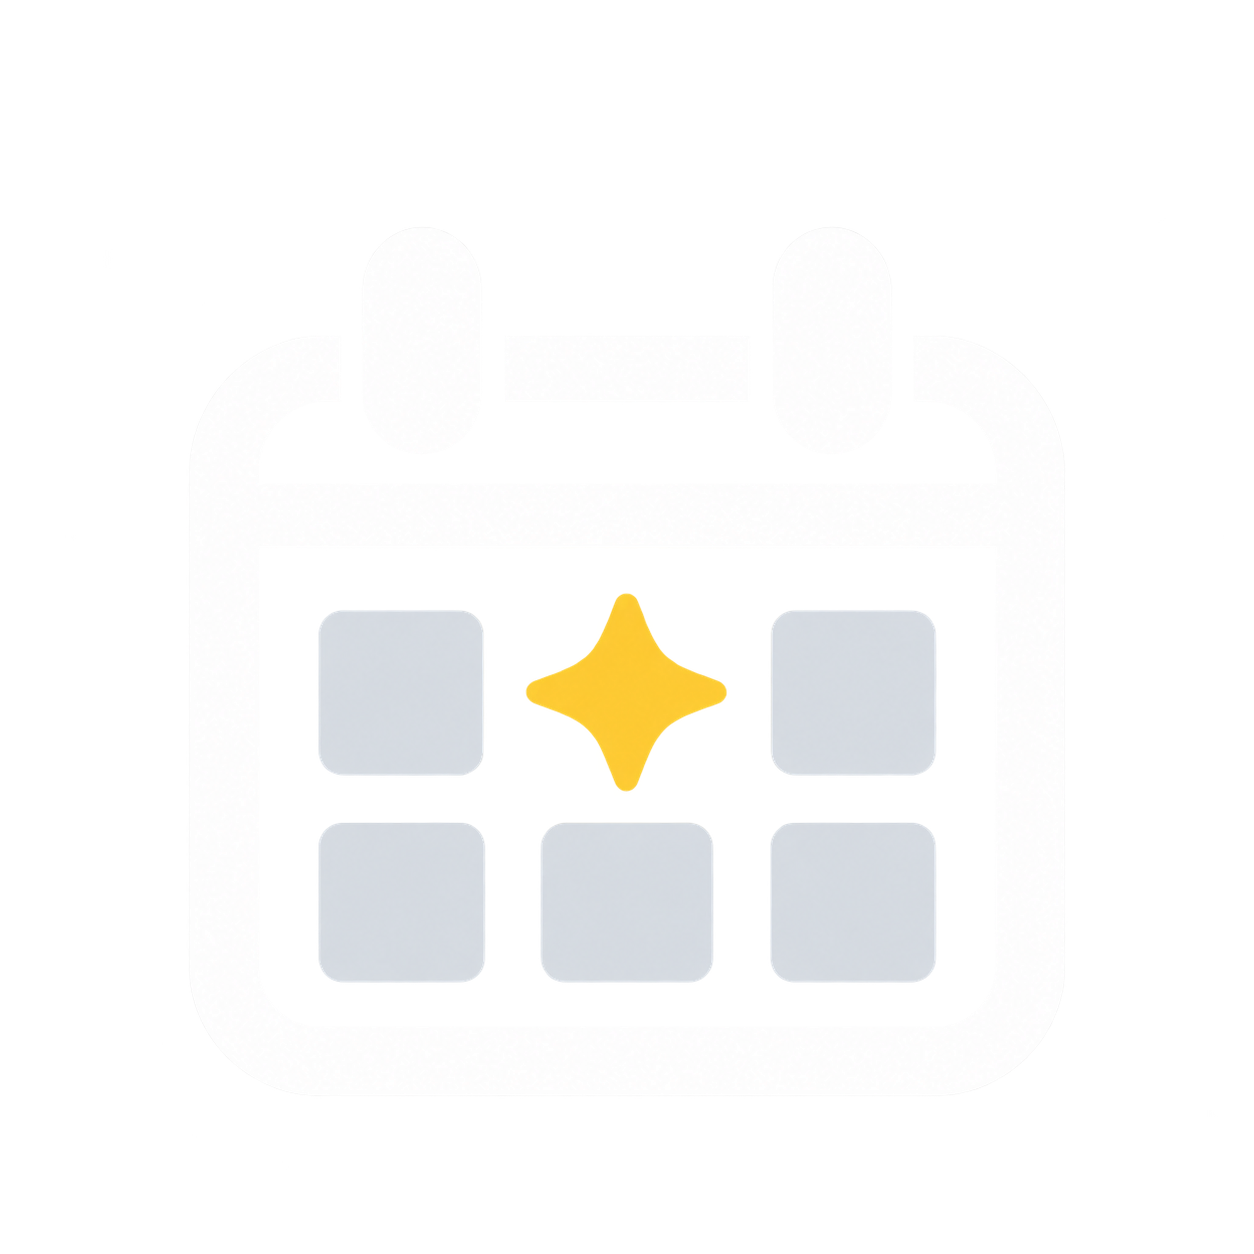
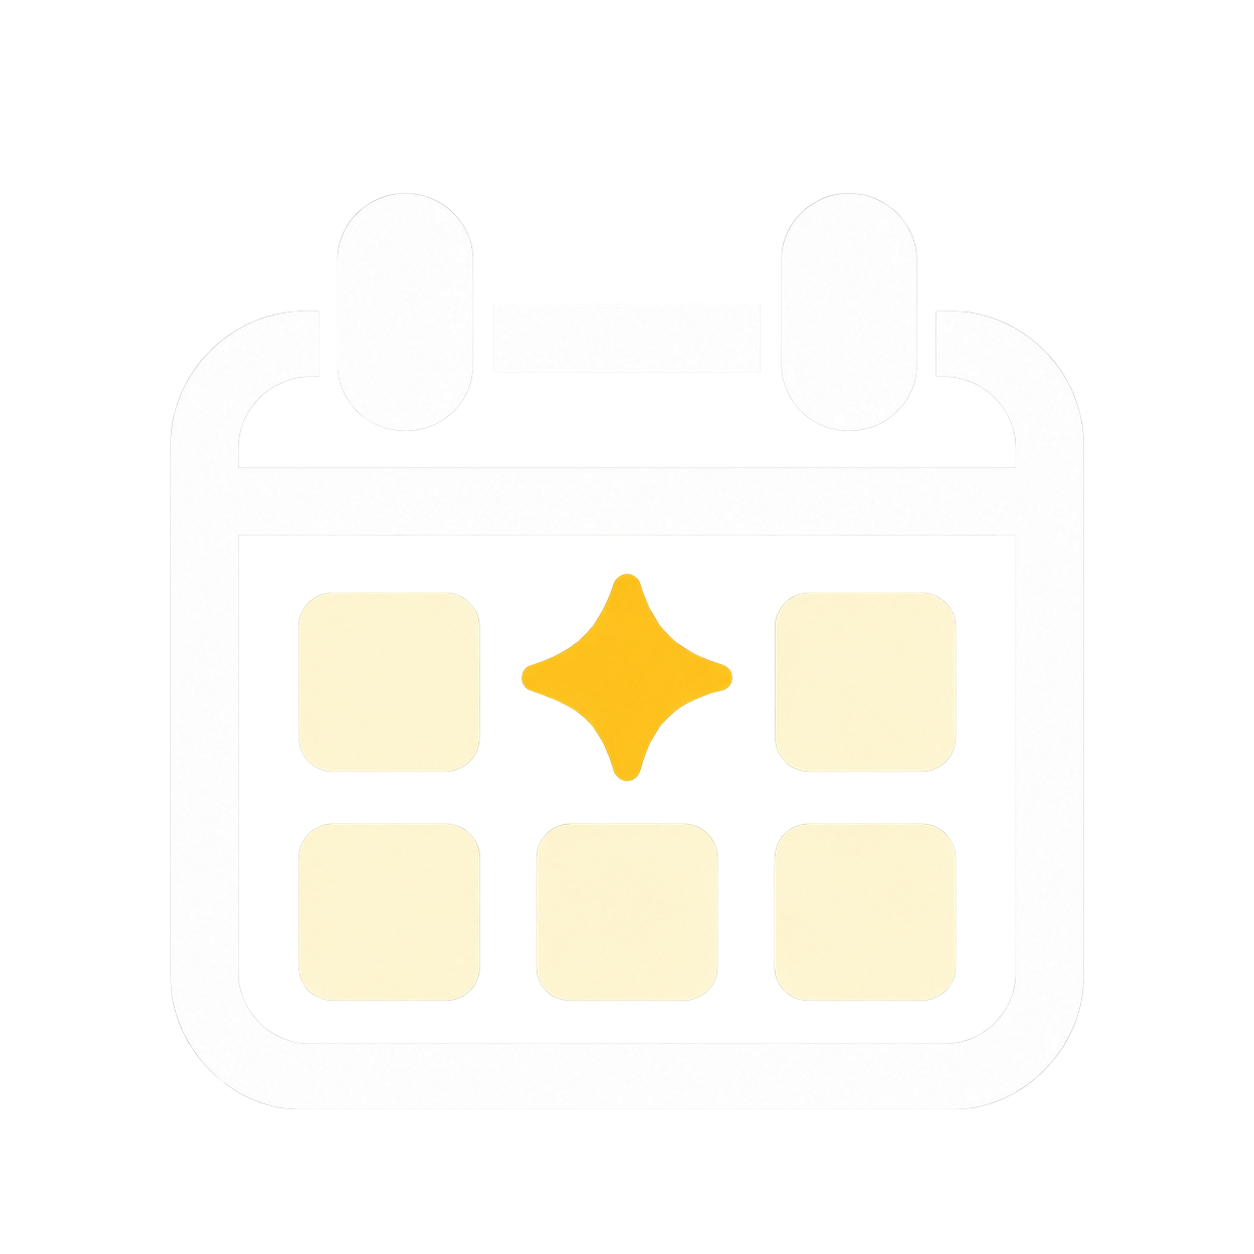
style:ロゴを修正

Changed region(s): [[0.2177, 0.6531, 0.7775, 0.8086], [0.2177, 0.4354, 0.7775, 0.622]]

diff --git a/app/globals.css b/app/globals.css
@@ -60,7 +60,7 @@ body::-webkit-scrollbar-thumb:hover { background: #b9b1a3; background-clip: padd
 .app-shell { --sidebar-width: clamp(205px, 24.4vw, 260px); display: grid; grid-template-columns: var(--sidebar-width) minmax(0, 1fr); min-height: 100vh; background: var(--paper); }
 .sidebar { position: fixed; z-index: 5; inset: 0 auto 0 0; width: var(--sidebar-width); height: 100vh; overflow-y: auto; padding: 15px; background: var(--blue); color: #fff; }
 .brand-lockup { display: block; width: 100%; padding: 0 0 18px; }
-.brand-logo { display: block; width: 100%; height: auto; }
+.brand-logo { display: block; width: 92%; height: auto; margin-inline: auto; }
 .side-nav { display: grid; gap: 20px; margin-top: 0; }
 .nav-item { display: flex; align-items: center; gap: 12px; min-height: 44px; padding: 5px 20px; border: 0; border-radius: 17px; background: transparent; color: #fff; text-align: left; font-size: 14px; font-weight: 700; transition: background .16s ease, color .16s ease; }
 .nav-item:hover { background: rgba(255,255,255,.13); }
@@ -247,7 +247,7 @@ body::-webkit-scrollbar-thumb:hover { background: #b9b1a3; background-clip: padd
 .task-form input:focus, .task-form textarea:focus, .search-field:focus-within { border-color: #78a9cb; box-shadow: 0 0 0 2px #3479af21; }
 .task-form input::placeholder, .task-form textarea::placeholder { color: #b5b2ad; }
 .task-form input::placeholder, .task-form textarea::placeholder,
-.search-field input::placeholder, .feedback-input-label textarea::placeholder {
+.search-field input::placeholder {
   font-family: var(--reference-font-family);
 }
 .coral-button { display: inline-flex; align-items: center; justify-content: center; min-height: 38px; padding: 0 20px; border: 0; border-radius: 999px; background: var(--coral); color: #fff; font-size: 13px; font-weight: 750; transition: transform .15s ease, filter .15s ease; }
@@ -258,6 +258,13 @@ body::-webkit-scrollbar-thumb:hover { background: #b9b1a3; background-clip: padd
 .task-list-card { display: flex; min-height: 0; height: 100%; flex-direction: column; justify-content: flex-start; overflow: hidden; padding: 40px 29px 24px; border: 1px solid #d8d3c9; border-radius: 16px; }
 .task-list-heading { display: flex; align-items: center; justify-content: flex-start; gap: 10px; margin-bottom: 18px; }
 .task-list-heading .section-title { margin: 0; }
+.task-list-tabs { display: flex; flex: 0 0 auto; gap: 7px; margin-bottom: 12px; border-bottom: 1px solid #e5e0d5; }
+.task-list-tab { position: relative; display: inline-flex; align-items: center; gap: 7px; min-height: 36px; padding: 0 12px; border: 0; background: transparent; color: #888; font: inherit; font-size: 12px; font-weight: 600; cursor: pointer; }
+.task-list-tab span { display: grid; min-width: 19px; height: 19px; place-items: center; padding: 0 5px; border-radius: 999px; background: #f0ede5; color: #888; font-size: 10px; }
+.task-list-tab.is-active { color: var(--blue); }
+.task-list-tab.is-active::after { position: absolute; right: 8px; bottom: -1px; left: 8px; height: 2px; background: var(--blue); content: ""; }
+.task-list-tab.is-active span { background: #e8f1f7; color: var(--blue); }
+.task-list-tab:focus-visible { outline: 2px solid var(--blue); outline-offset: -2px; }
 .task-list-search-wrap { flex: 0 0 auto; width: 100%; height: 33px; }
 .task-count-badge { display: inline-flex; flex: 0 0 auto; padding: 0.5rem; align-items: baseline; gap: 5px; padding: 5px 10px; border: none; border-radius: 999px; background: var(--yellow); color: #79612c; font-size: 10px; font-weight: 600; white-space: nowrap; }
 .task-count-badge strong { font-size: 14px; font-weight: 800; }
@@ -374,7 +381,6 @@ body::-webkit-scrollbar-thumb:hover { background: #b9b1a3; background-clip: padd
 .no-plan { padding: 27px; color: #888; font-size: 14px; text-align: center; }
 
 .dialog-backdrop { position: fixed; z-index: 10; inset: 0; display: grid; place-items: center; overflow-y: auto; padding: 24px; background: rgba(35, 56, 71, .42); }
-.feedback-dialog { position: relative; width: min(100%, 430px); padding: 29px 34px 31px; border-radius: 20px; background: #fff; box-shadow: 0 20px 70px #23384738; text-align: center; }
 .task-edit-dialog { position: relative; width: min(100%, 620px); max-height: calc(100dvh - 40px); overflow-y: auto; padding: 30px 34px; border-radius: 20px; background: #fff; box-shadow: 0 20px 70px #23384738; font-family: var(--reference-font-family); }
 .task-edit-dialog.calendar-filter-dialog { max-height: none; overflow: visible; }
 .task-edit-dialog h2 { margin: 0; color: var(--gold); font-size: 21px; font-weight: 800;}
@@ -429,20 +435,11 @@ body::-webkit-scrollbar-thumb:hover { background: #b9b1a3; background-clip: padd
 .task-edit-cancel:focus-visible { outline: 2px solid var(--blue); outline-offset: 2px; }
 @media (prefers-reduced-motion: reduce) { .task-edit-cancel, .task-edit-buttons .coral-button, .submit-button, .list-task-title, .priority-title-button { transition: none; } }
 .dialog-close { position: absolute; top: 10px; right: 14px; width: 30px; height: 30px; border: 0; background: transparent; color: #aaa; font-size: 25px; }
-.feedback-check { display: grid; width: 44px; height: 44px; place-items: center; margin: 0 auto 10px; border-radius: 50%; background: #e8f3dd; color: var(--green); font-size: 24px; font-weight: 800; }
-.feedback-dialog h2 { margin: 0; color: var(--gold); font-size: 21px; }
-.feedback-task-name { margin: 8px 0 0; color: #777; font-size: 14px; font-weight: 700; }
-.feedback-prompt { margin: 20px 0 15px; color: #888; font-size: 12px; }
-.feedback-dialog form { display: grid; gap: 14px; text-align: left; }
 .difficulty-field { margin: 0; padding: 0; border: 0; }
-.difficulty-field legend, .feedback-input-label { color: #625f59; font-size: 12px; font-weight: 700; }
+.difficulty-field legend { color: #625f59; font-size: 12px; font-weight: 700; }
 .star-picker { display: flex; gap: 4px; margin-top: 5px; }
 .star-picker button { padding: 0; border: 0; background: transparent; color: #ddd; font-size: 29px; line-height: 1; }
 .star-picker button.active { color: var(--gold); }
-.feedback-input-label { display: grid; gap: 6px; }
-.feedback-input-label input, .feedback-input-label textarea { width: 100%; padding: 9px 11px; border: 1px solid #d5d2cc; border-radius: 8px; outline: none; color: var(--ink); font-size: 13px; font-weight: 400; }
-.feedback-input-label textarea { height: 86px; resize: none; }
-.feedback-save { width: 170px; justify-self: center; margin-top: 4px; }
 .loading-spinner {
   display: inline-block;
   width: 14px;
@@ -478,7 +475,7 @@ body::-webkit-scrollbar-thumb:hover { background: #b9b1a3; background-clip: padd
   .app-shell { --sidebar-width: 72px; grid-template-columns: var(--sidebar-width) minmax(0, 1fr); }
   .sidebar { padding: 22px 8px; }
   .brand-lockup { display: flex; justify-content: center; padding: 0 0 16px; }
-  .brand-logo { width: 42px; height: 42px; object-fit: contain; }
+  .brand-logo { width: 46px; height: 46px; object-fit: contain; }
   .side-nav { gap: 20px; margin-top: 0; }
   .nav-item { justify-content: center; min-height: 46px; padding: 4px; border-radius: 13px; }
   .nav-item > span:last-child { position: absolute; width: 1px; height: 1px; overflow: hidden; clip: rect(0,0,0,0); white-space: nowrap; }
@@ -494,15 +491,15 @@ body::-webkit-scrollbar-thumb:hover { background: #b9b1a3; background-clip: padd
   .calendar-day { min-height: 68px; padding: 4px; }
   .calendar-day-number { width: 22px; height: 22px; font-size: 12px; }
   .calendar-task { padding: 3px; font-size: 9px; }
-  .entry-workspace { height: auto; gap: 16px; }
-  .entry-columns { flex: 0 0 auto; min-height: 0; grid-template-columns: minmax(0, 1fr); gap: 16px; }
-  .entry-card, .task-list-card { height: auto; min-height: auto; padding: 36px 22px 24px; }
+  .entry-workspace { height: 100dvh; min-height: 100dvh; gap: 16px; }
+  .entry-columns { flex: 1 1 auto; min-height: 0; grid-template-columns: minmax(0, 1fr); gap: 16px; }
+  .entry-card, .task-list-card { height: 100%; min-height: 0; padding: 36px 22px 24px; }
   .task-form .task-summary-field { grid-template-rows: auto minmax(180px, 1fr); }
   .task-form .task-summary-field textarea { min-height: 180px; }
   .task-list-card { border-radius: 14px; }
-  .task-list { flex: 0 0 auto; max-height: 340px; }
+  .task-list { flex: 1 1 auto; min-height: 0; max-height: none; }
   .plan-workspace { padding: 20px 15px; }
-  .plan-heading { gap: 9px; margin: 23px 0 14px; }
+  .plan-heading { gap: 9px; margin: 0 0 14px; }
   .plan-heading-dots { gap: 3px; }
   .plan-heading-dots i { width: 7px; height: 7px; }
   .plan-heading h2 { font-size: 20px; }

diff --git a/components/TaskEntryPanel.tsx b/components/TaskEntryPanel.tsx
@@ -35,6 +35,7 @@ export function TaskEntryPanel({ view, tasks, totalCount, query, onQueryChange, 
   const [formErrors, setFormErrors] = useState({ title: false, deadline: false });
   const [editingTask, setEditingTask] = useState<Task | null>(null);
   const [isSelectingTasks, setIsSelectingTasks] = useState(false);
+  const [taskListTab, setTaskListTab] = useState<"todo" | "done">("todo");
   const [selectedTaskIds, setSelectedTaskIds] = useState<string[]>([]);
   const [editSubtasks, setEditSubtasks] = useState<string[]>([]);
   const editSubtasksRef = useRef<string[]>([]);
@@ -129,6 +130,15 @@ export function TaskEntryPanel({ view, tasks, totalCount, query, onQueryChange, 
     return true;
   }), [deadlineFrom, deadlineTo, difficultyFilter, minutesMin, minutesMax, tasks]);
   const hasFilters = Boolean(difficultyFilter || deadlineFrom || deadlineTo || minutesMin > 0 || minutesMax !== null);
+  const tabTasks = visibleTasks.filter((task) => task.status === taskListTab);
+  const todoCount = tasks.filter((task) => task.status === "todo").length;
+  const doneCount = tasks.filter((task) => task.status === "done").length;
+
+  function changeTaskListTab(tab: "todo" | "done") {
+    setTaskListTab(tab);
+    setIsSelectingTasks(false);
+    setSelectedTaskIds([]);
+  }
 
   function openFilters() {
     setDraftDifficulty(difficultyFilter);
@@ -330,6 +340,10 @@ export function TaskEntryPanel({ view, tasks, totalCount, query, onQueryChange, 
               <h2 className="section-title">タスク一覧</h2>
               <span className="task-count-badge" aria-label={`全${totalCount}件`}><span>全</span><strong>{totalCount}</strong><span>件</span></span>
             </div>
+            <div className="task-list-tabs" role="group" aria-label="タスクの状態">
+              <button className={`task-list-tab${taskListTab === "todo" ? " is-active" : ""}`} type="button" aria-pressed={taskListTab === "todo"} onClick={() => changeTaskListTab("todo")}>未完了 <span>{todoCount}</span></button>
+              <button className={`task-list-tab${taskListTab === "done" ? " is-active" : ""}`} type="button" aria-pressed={taskListTab === "done"} onClick={() => changeTaskListTab("done")}>完了済み <span>{doneCount}</span></button>
+            </div>
             <div className="calendar-search-wrap task-list-search-wrap">
               <label className="search-field calendar-search"><span className="search-icon" aria-hidden="true" /><input value={query} onChange={(event) => onQueryChange(event.target.value)} placeholder="タスクを検索" aria-label="タスクを検索" /></label>
               <button className={`calendar-filter-toggle${hasFilters ? " has-filters" : ""}`} type="button" aria-label={`フィルター${hasFilters ? `適用中 ${[difficultyFilter, deadlineFrom || deadlineTo, minutesMin > 0 || minutesMax !== null].filter(Boolean).length}件` : ""}`} aria-expanded={filtersOpen} aria-haspopup="dialog" onClick={openFilters}>
@@ -341,10 +355,10 @@ export function TaskEntryPanel({ view, tasks, totalCount, query, onQueryChange, 
               <span className="task-selection-count">{selectedTaskIds.length}件選択中</span>
               <button className="task-edit-cancel task-bulk-cancel" type="button" onClick={cancelTaskSelection}>キャンセル</button>
               <button className="task-bulk-delete" type="button" disabled={selectedTaskIds.length === 0} onClick={deleteSelectedTasks}>選択したタスクを削除</button>
-            </> : visibleTasks.length > 0 && <button className="task-bulk-start" type="button" onClick={startTaskSelection}>タスクを取り消す</button>}
+            </> : tabTasks.length > 0 && <button className="task-bulk-start" type="button" onClick={startTaskSelection}>タスクを取り消す</button>}
           </div>
-          <div className="task-list" id="task-list-panel" aria-label="登録済みタスク">
-            {visibleTasks.map((task) => {
+          <div className="task-list" id="task-list-panel" aria-label={taskListTab === "todo" ? "未完了タスク" : "完了済みタスク"}>
+            {tabTasks.map((task) => {
               const expanded = expandedTaskId === task.id;
               const days = daysUntil(task.deadline);
               return <div className="task-list-entry" key={task.id}>
@@ -387,9 +401,11 @@ export function TaskEntryPanel({ view, tasks, totalCount, query, onQueryChange, 
               </div>;
               
             })}
-            {visibleTasks.length === 0 && (totalCount === 0
+            {tabTasks.length === 0 && (tasks.length === 0
               ? <p className="empty-state">該当するタスクはありません<br/><span className="empty-state-span">タスクを登録</span>してください</p>
-              : <p className="empty-state">条件に一致するタスクはありません</p>)}
+              : hasFilters || query.trim()
+                ? <p className="empty-state">条件に一致するタスクはありません</p>
+                : <p className="empty-state">{taskListTab === "done" ? "完了したタスクはありません" : "未完了のタスクはありません"}</p>)}
           </div>
         </section>
         )}

diff --git a/app/page.tsx b/app/page.tsx
@@ -1,7 +1,6 @@
 "use client";
 
 import { useEffect, useMemo, useState, type FormEvent } from "react";
-import { CompletionDialog } from "../components/CompletionDialog";
 import { CalendarPanel } from "../components/CalendarPanel";
 import {
   PlannerSidebar,
@@ -14,7 +13,6 @@ import {
   daysUntil,
   initialTasks,
   type Task,
-  type TaskFeedback,
   type AnalyzeRequest,
   type AnalyzeResponse,
 } from "../lib/tasks";
@@ -30,8 +28,6 @@ type DatabaseTaskRow = {
   tip: string | null;
   status: Task["status"];
   analysis_status: Task["analysisStatus"] | null;
-  feedback_difficulty: number | null;
-  feedback_actual_minutes: number | null;
   subtasks?: Array<{
     title: string;
     is_done: boolean;
@@ -44,7 +40,6 @@ export default function Home() {
   const [tasks, setTasks] = useState<Task[]>(initialTasks);
   const [persistenceError, setPersistenceError] = useState("");
   const [query, setQuery] = useState("");
-  const [feedbackTask, setFeedbackTask] = useState<Task | null>(null);
   const [expandedTaskId, setExpandedTaskId] = useState<string | null>(null);
   const [analyzingTaskIds, setAnalyzingTaskIds] = useState<string[]>([]);
   const isAnalyzing = analyzingTaskIds.length > 0;
@@ -141,26 +136,15 @@ export default function Home() {
     return true;
   }
 
-  function saveFeedback(feedback: TaskFeedback) {
-    if (!feedbackTask) return;
-    const updatedTask = { ...feedbackTask, status: "done" as const, feedback };
-    setTasks((current) => current.map((task) => task.id === updatedTask.id ? updatedTask : task));
+  function toggleDone(task: Task) {
+    const updatedTask = {
+      ...task,
+      status: task.status === "done" ? "todo" as const : "done" as const,
+    };
+    setTasks((current) => current.map((item) => item.id === task.id ? updatedTask : item));
     void saveTaskRecord(updatedTask).then((saved) => {
       if (saved) setPersistenceError("");
     });
-    setFeedbackTask(null);
-  }
-
-  function toggleDone(task: Task) {
-    if (task.status === "done") {
-      const updatedTask = { ...task, status: "todo" as const, feedback: undefined };
-      setTasks((current) => current.map((item) => item.id === task.id ? updatedTask : item));
-      void saveTaskRecord(updatedTask).then((saved) => {
-        if (saved) setPersistenceError("");
-      });
-    } else {
-      setFeedbackTask(task);
-    }
   }
 
   function toggleSubtask(taskId: string, subtaskIndex: number) {
@@ -350,13 +334,6 @@ export default function Home() {
       ) : (
         <CalendarPanel tasks={filteredTasks} query={query} onQueryChange={setQuery} onOpenTaskInList={openTaskInList} />
       )}
-      {feedbackTask && (
-        <CompletionDialog
-          task={feedbackTask}
-          onCancel={() => setFeedbackTask(null)}
-          onSave={saveFeedback}
-        />
-      )}
     </main>
   );
 }
@@ -407,14 +384,6 @@ function mapDatabaseTask(row: DatabaseTaskRow): Task {
       tip: row.tip ?? fallback.tip,
     },
     subtaskProgress: subtasks.map((subtask) => subtask.is_done),
-    feedback:
-      typeof row.feedback_difficulty === "number" &&
-      typeof row.feedback_actual_minutes === "number"
-        ? {
-            difficulty: row.feedback_difficulty,
-            actualHours: row.feedback_actual_minutes / 60,
-          }
-        : undefined,
   };
 }
 
@@ -428,7 +397,6 @@ function toApiTask(task: Task) {
     analysisStatus: task.analysisStatus ?? "pending",
     analysis: task.analysis,
     subtaskProgress: task.subtaskProgress,
-    feedback: task.feedback,
   };
 }
 

diff --git a/components/PlannerSidebar.tsx b/components/PlannerSidebar.tsx
@@ -9,7 +9,7 @@ export function PlannerSidebar({ screen, onNavigate }: { screen: PlannerScreen; 
     <aside className="sidebar">
       <picture className="brand-lockup">
         <source media="(max-width: 760px)" srcSet="/images/AITaskPlanner_noText.png" />
-        <Image className="brand-logo" src="/images/AITaskPlanner_logo.png" alt="AI Task Planner" width={2172} height={724} priority />
+        <Image className="brand-logo" src="/images/AITaskPlanner_logo.png?v=20261014" alt="AI Task Planner" width={2172} height={724} priority unoptimized />
       </picture>
       <nav className="side-nav" aria-label="メインメニュー">
         <button type="button" className={`nav-item ${screen === "add" ? "active" : ""}`} onClick={() => onNavigate("add")}>

diff --git a/app/api/tasks/route.ts b/app/api/tasks/route.ts
@@ -17,10 +17,6 @@ type TaskPayload = {
     tip: string;
   };
   subtaskProgress?: boolean[];
-  feedback?: {
-    difficulty: number;
-    actualHours: number;
-  };
 };
 
 function isRecord(value: unknown): value is Record<string, unknown> {
@@ -71,10 +67,6 @@ function toTaskRow(task: TaskPayload, userId: string) {
     tip: task.analysis.tip,
     status: task.status,
     analysis_status: task.analysisStatus,
-    feedback_difficulty: task.feedback?.difficulty ?? null,
-    feedback_actual_minutes: task.feedback
-      ? Math.round(task.feedback.actualHours * 60)
-      : null,
   };
 }
 

diff --git a/lib/tasks.ts b/lib/tasks.ts
@@ -8,11 +8,6 @@ export type TaskAnalysis = {
   tip: string;
 };
 
-export type TaskFeedback = {
-  difficulty: number;
-  actualHours: number;
-};
-
 export type Task = {
   id: string;
   title: string;
@@ -23,7 +18,6 @@ export type Task = {
   analysisStatus?: "pending" | "complete";
   analysisError?: string;
   subtaskProgress?: boolean[];
-  feedback?: TaskFeedback;
 };
 
 export type AnalyzeRequest = {
